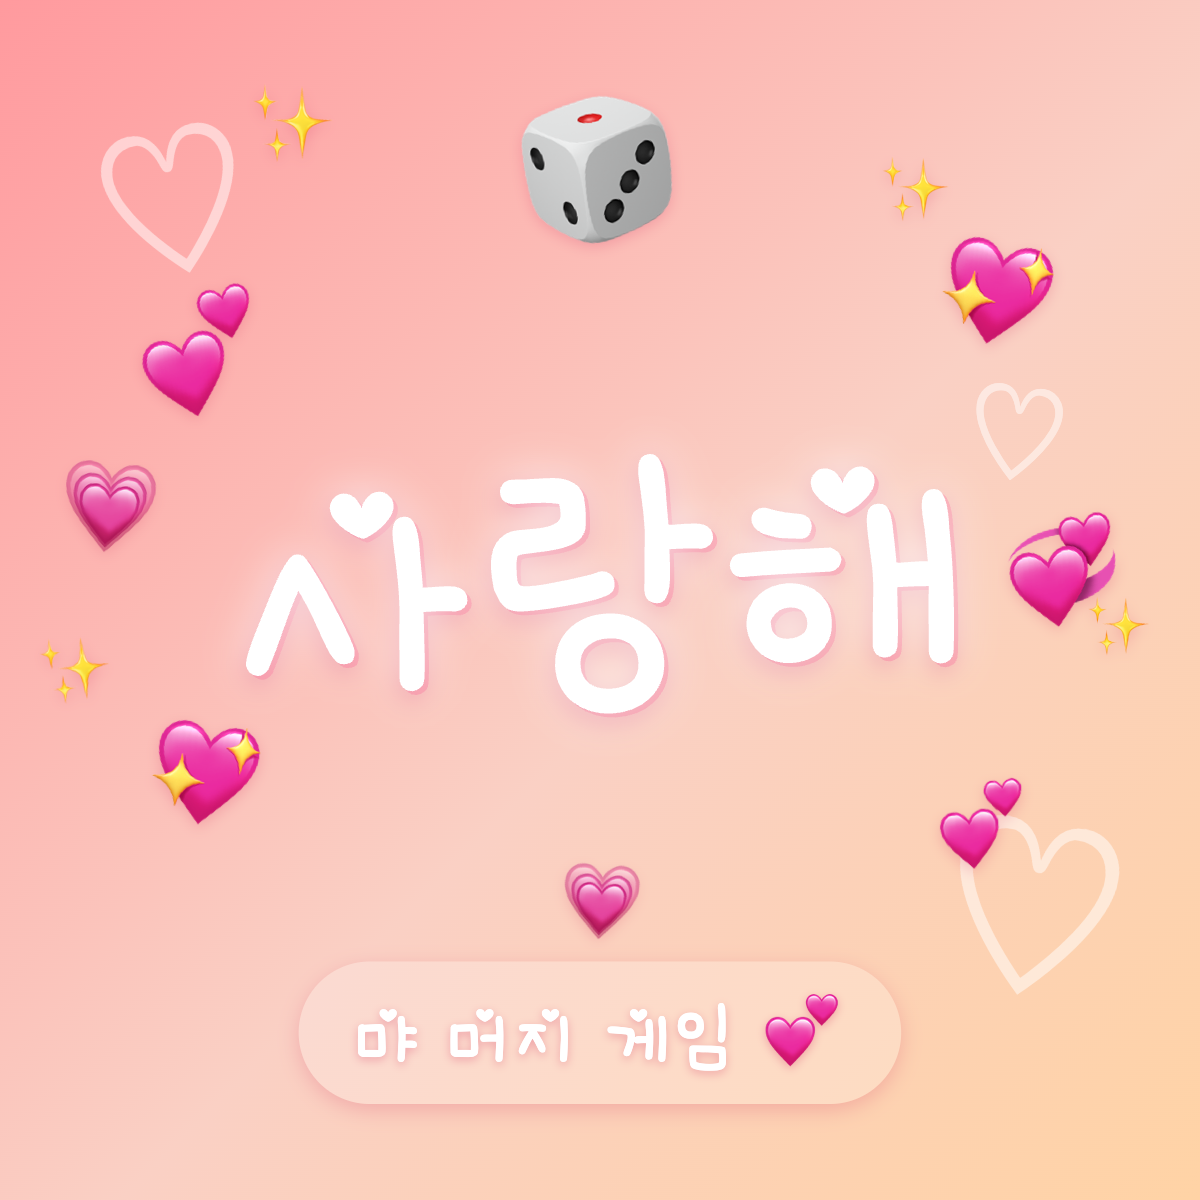
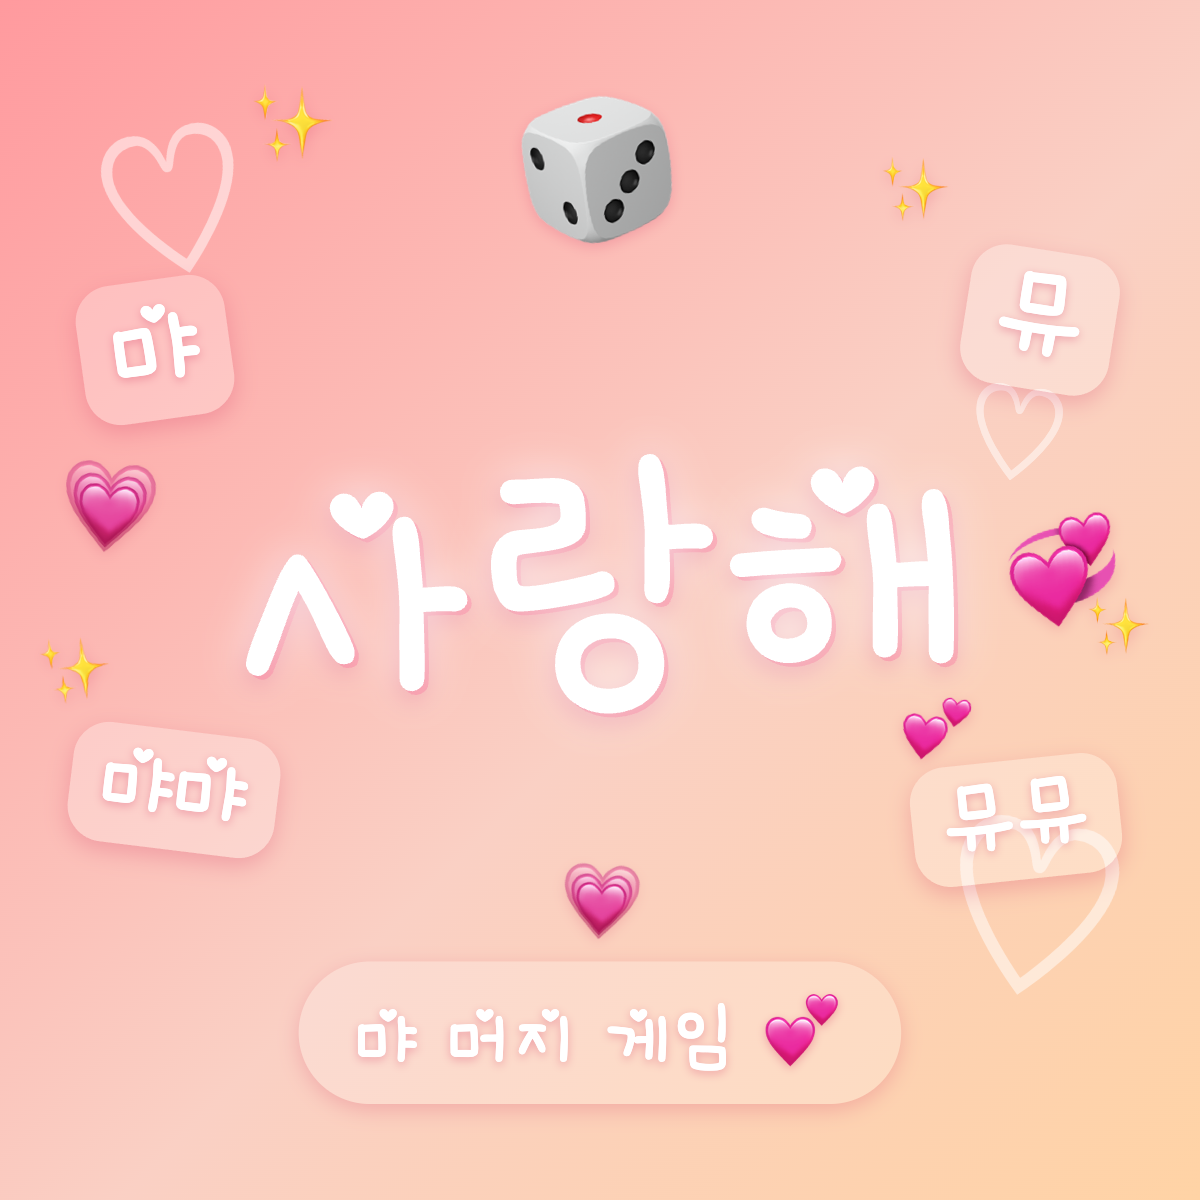
tweak(play): 게임 OG 이미지에 먀·뮤 머지 타일 추가
'사랑해 폭발'에 결과(사랑해)만 있고 합치는 먀/뮤가 없어, 머지 게임 정체성이
약했음. 큰 사랑해 주변에 먀·뮤·먀먀·뮤뮤를 둥근 타일(칩)로 배치 — "먀/뮤를
합쳐 사랑해를 만든다"는 메커니즘이 한눈에 읽힘. 칩 스타일이라 메인 이미지
(평문 속삭임)와도 구분 유지. 하트 4개를 타일로 치환해 밀도 균형.

static/og-play.html + 재생성된 static/og-play.png만 변경(소스/라우트 불변).

diff --git a/static/og-play.html b/static/og-play.html
@@ -66,6 +66,19 @@
             color: rgba(255, 255, 255, 0.5);
             z-index: 1;
         }
+        /* 머지 재료 타일 — 합치는 먀·뮤 조각 (둥근 칩) */
+        .tile {
+            position: absolute;
+            line-height: 1;
+            color: #fff;
+            padding: 10px 30px 18px;
+            border-radius: 36px;
+            background: rgba(255, 255, 255, 0.26);
+            box-shadow: 0 8px 22px rgba(214, 64, 105, 0.28);
+            text-shadow: 0 3px 10px rgba(214, 64, 105, 0.35);
+            white-space: nowrap;
+            z-index: 4;
+        }
     </style>
 </head>
 <body>
@@ -79,16 +92,19 @@
     <div class="deco" style="top: 90px;  left: 250px; font-size: 84px;">✨</div>
     <div class="deco" style="top: 160px; right: 250px; font-size: 70px;">✨</div>
 
+    <!-- 머지 재료: 합치는 먀·뮤 타일 (결과인 사랑해 주변에) -->
+    <div class="tile" style="top: 280px;  left: 80px;   font-size: 112px; transform: rotate(-8deg);">먀</div>
+    <div class="tile" style="top: 250px;  right: 85px;  font-size: 112px; transform: rotate(9deg);">뮤</div>
+    <div class="tile" style="bottom: 350px; left: 70px;  font-size: 92px;  transform: rotate(7deg);">먀먀</div>
+    <div class="tile" style="bottom: 320px; right: 80px; font-size: 92px;  transform: rotate(-6deg);">뮤뮤</div>
+
     <!-- heart shower around the word -->
-    <div class="deco" style="top: 300px;  left: 140px;  font-size: 130px; transform: rotate(-14deg);">💕</div>
-    <div class="deco" style="top: 250px;  right: 150px; font-size: 110px; transform: rotate(12deg);">💖</div>
     <div class="deco" style="top: 470px;  left: 60px;   font-size: 96px;  transform: rotate(6deg);">💗</div>
     <div class="deco" style="top: 520px;  right: 70px;  font-size: 124px; transform: rotate(-10deg);">💞</div>
-    <div class="deco" style="bottom: 360px; left: 150px; font-size: 108px; transform: rotate(9deg);">💖</div>
-    <div class="deco" style="bottom: 320px; right: 170px; font-size: 92px; transform: rotate(-7deg);">💕</div>
     <div class="deco" style="bottom: 250px; left: 50%;  transform: translateX(-50%) rotate(4deg); font-size: 80px;">💗</div>
     <div class="deco" style="top: 640px;  left: 40px;   font-size: 72px;  transform: rotate(-6deg);">✨</div>
     <div class="deco" style="top: 600px;  right: 50px;  font-size: 64px;">✨</div>
+    <div class="deco" style="bottom: 430px; right: 230px; font-size: 70px; transform: rotate(8deg);">💕</div>
 
     <!-- the win word -->
     <div class="love">사랑해</div>
